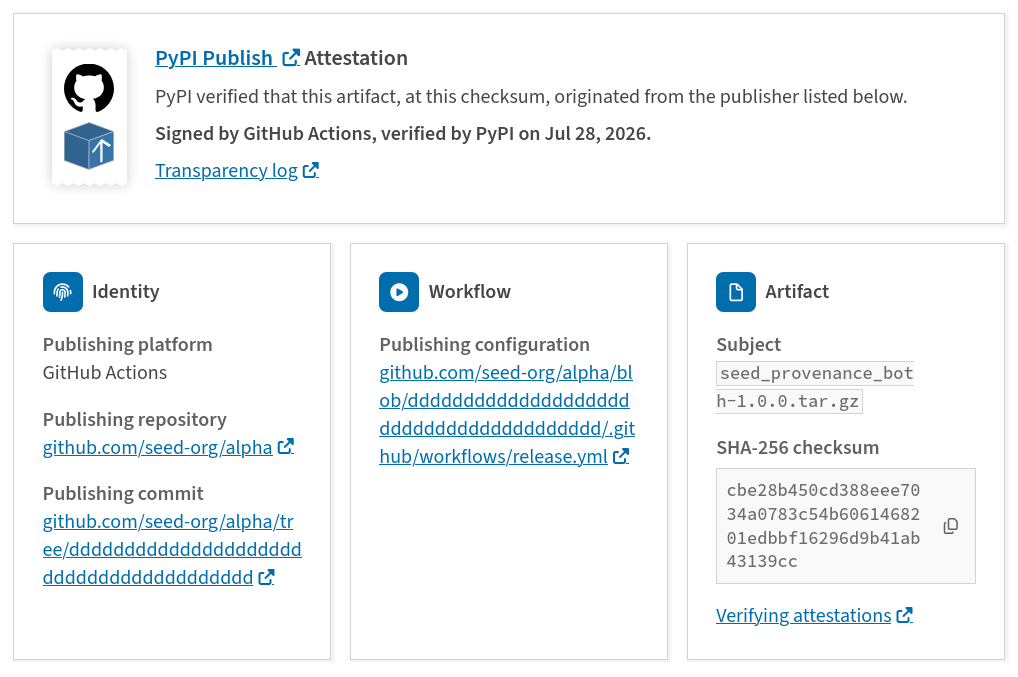
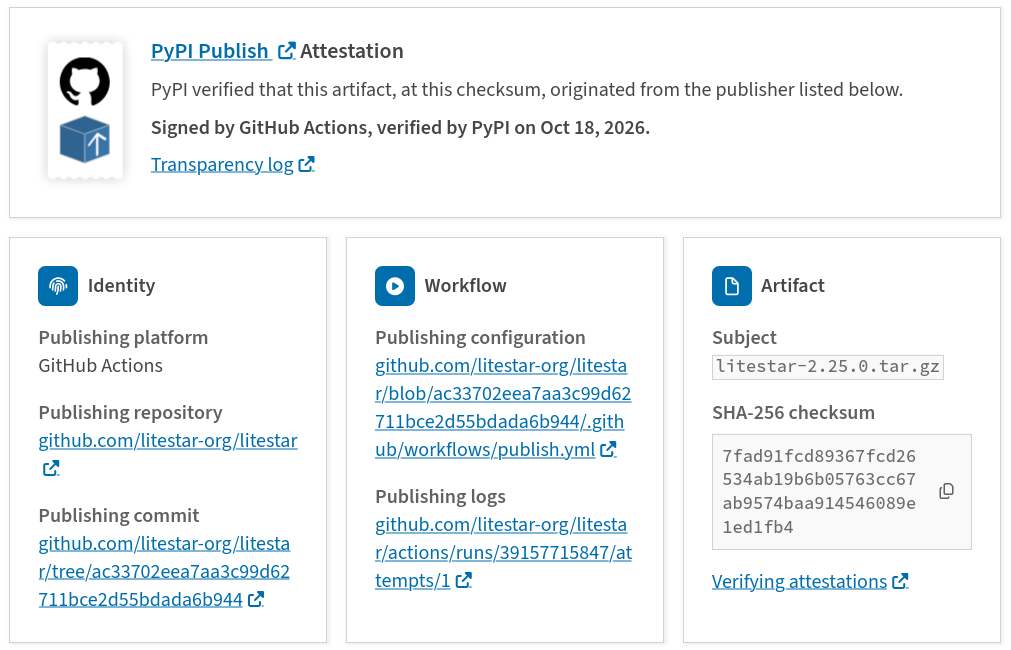
Update images, minor docs updates

diff --git a/docs/user/using-pypi/package-security/common-attacks.md b/docs/user/using-pypi/package-security/common-attacks.md
@@ -40,7 +40,7 @@ To protect yourself, use pip with [hash checking mode](https://pip.pypa.io/en/st
 
 In this attack, an attacker gains access to a maintainer's PyPI account and pushes a new, malicious version of a popular, legitimate package. From your perspective, the malicious version appears to come from the original author, making it difficult to detect.
 
-Since you can't know if a maintainer's account has been compromised, your best defense is to look for signals of good security practice. Prefer packages that use [Trusted Publishing](../../trusted-publishers/index.md), which you can identify by the presence of an [attestation](provenance.md) on the release's security page.
+Since you can't know if a maintainer's account has been compromised, your best defense is to look for signals of good security practice. Prefer packages that use [Trusted Publishing](../../trusted-publishers/index.md), which you can identify by the presence of an [attestation](provenance.md) on the project's security tab.
 
 This indicates the package was uploaded via an automated process without the use of API tokens that can be stolen.
 

diff --git a/docs/user/project_metadata.md b/docs/user/project_metadata.md
@@ -16,8 +16,6 @@ The project name, release version, and a one-line summary are shown at the top o
 * **Version**: The version of the release being viewed, from the `version` field.
 * **Summary**: A short, one-line description of the project, set via the `description` field in `pyproject.toml`. Also called the "short description" — see [Project Descriptions](project-management/project-descriptions.md) for how to write one.
 
-<!-- TODO: add screenshot here -->
-
 ## Project links
 
 Packages owners can specify various URLs related to their project using

diff --git a/docs/user/using-pypi/package-security/reporting-issues.md b/docs/user/using-pypi/package-security/reporting-issues.md
@@ -6,6 +6,4 @@ title: Reporting Security Issues
 
 PyPI's [security policy page](https://pypi.org/security/) outlines the process for responsibly reporting security issues found in a package or in the PyPI.org service itself.
 
-You can also report a project as suspected malware via the "Report project as malware" button on a project's security page.
-
-<!-- TODO: add screenshot of malware button here -->
+You can also report a project as suspected malware via the "Report project as malware" button on the project's security tab.
